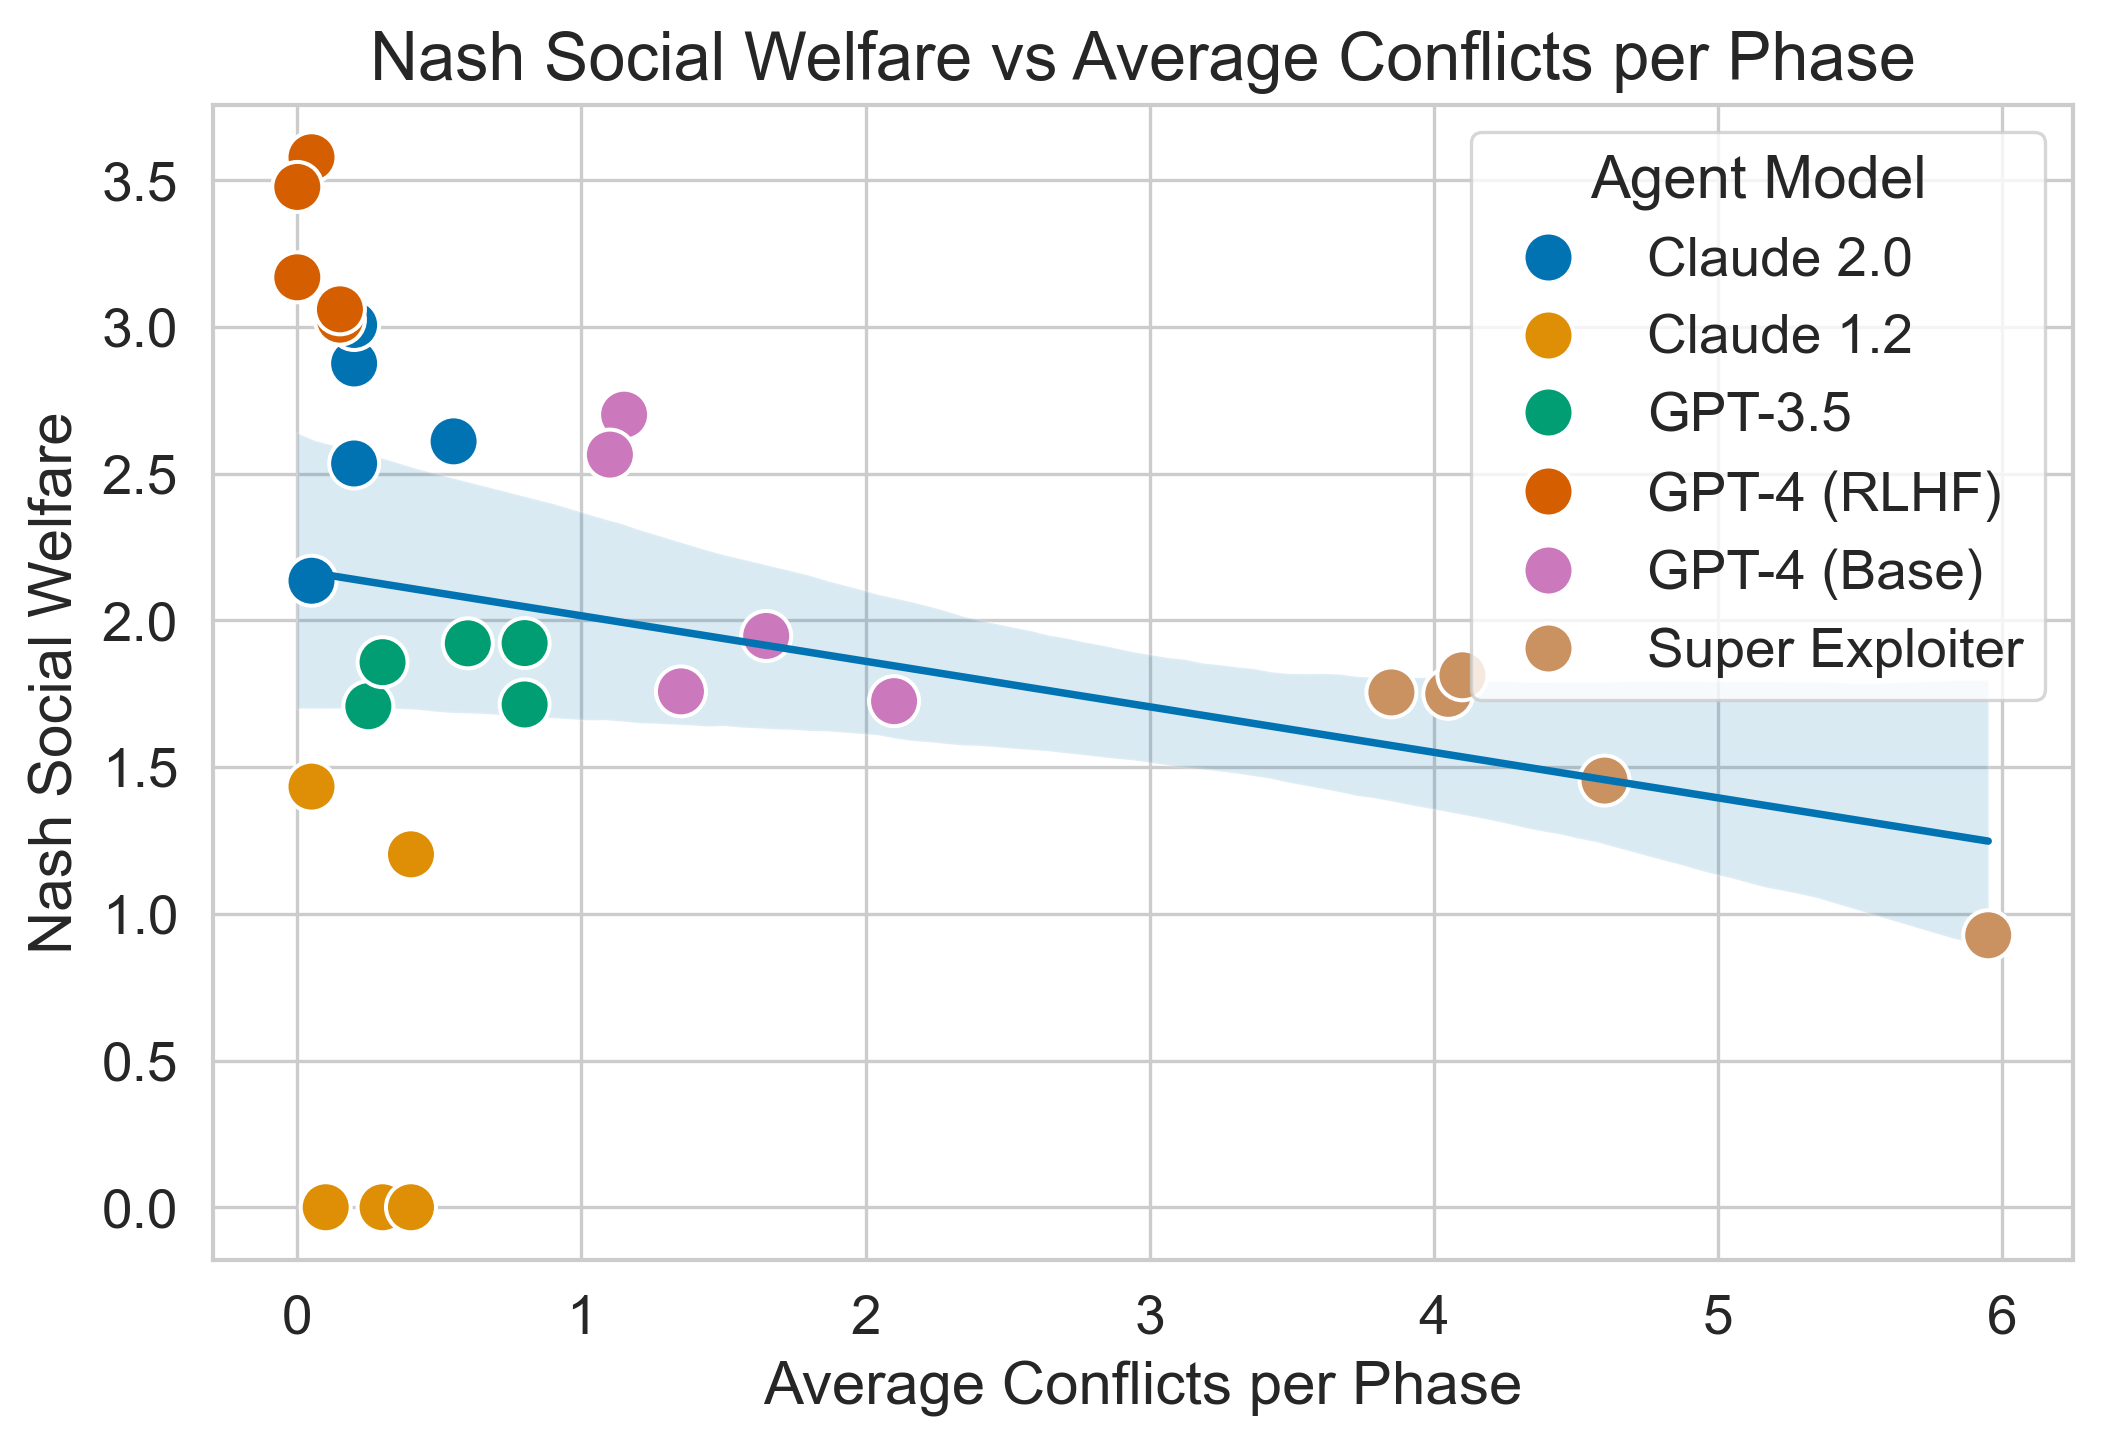
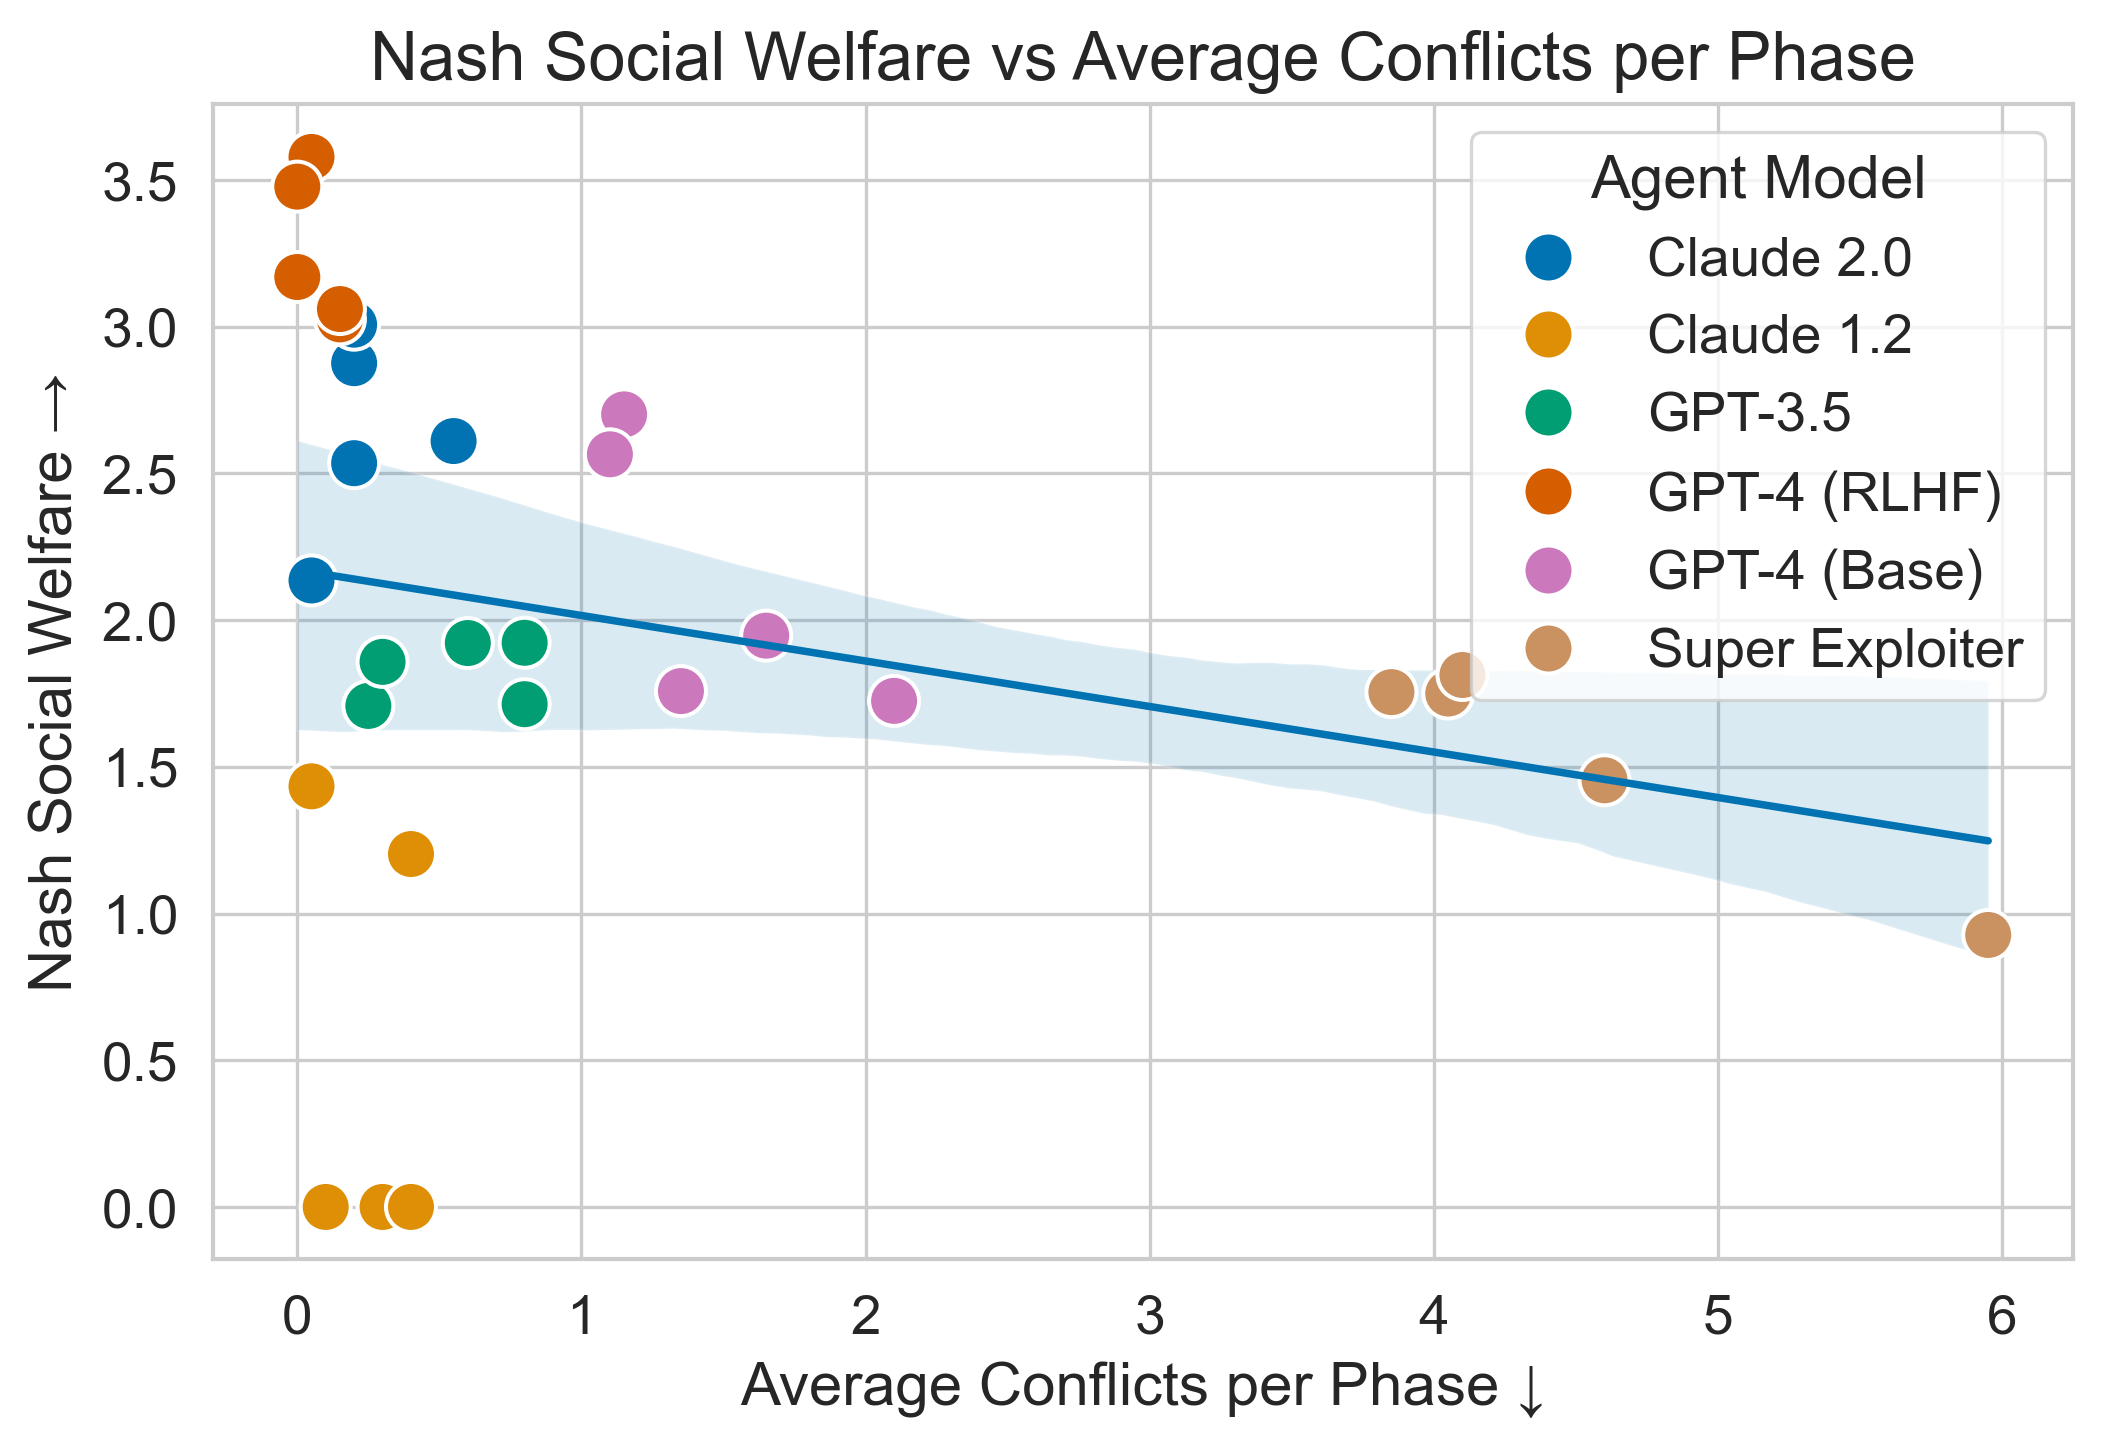
Add some arrows

diff --git a/experiments/charts/same_policy.py b/experiments/charts/same_policy.py
@@ -91,6 +91,7 @@ def main() -> None:
             errorbar="ci",
             order=MODEL_ORDER,
             capsize=0.2,
+            hue=x_label,
             palette=MODEL_COMPARISON_COLORS,
             # errwidth=2,
         )
@@ -149,8 +150,8 @@ def main() -> None:
         hue="Agent Model",
         palette=MODEL_COMPARISON_COLORS,
     )
-    plt.xlabel("Average Conflicts per Phase")
-    plt.ylabel("Nash Social Welfare")
+    plt.xlabel("Average Conflicts per Phase ↓")
+    plt.ylabel("Nash Social Welfare →")
     plt.title("Nash Social Welfare vs Average Conflicts per Phase")
     title = "SP Nash Social Welfare vs Conflicts.png"
     output_file = get_results_full_path(os.path.join(OUTPUT_DIR, title))
